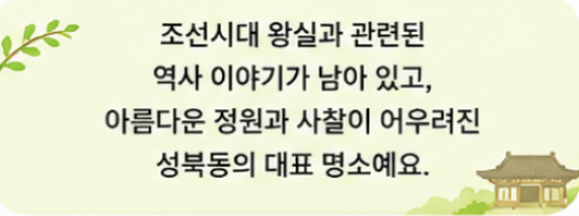
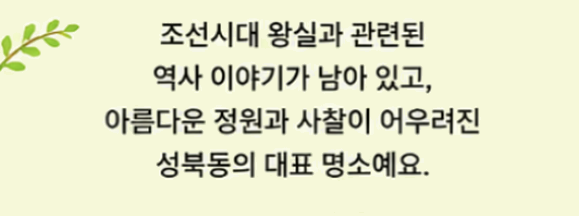
fix: 퀴즈 설명 카드 배경 통일 및 풍경 장식 제거

diff --git a/apps/web/src/pages/PlaceQuiz.tsx b/apps/web/src/pages/PlaceQuiz.tsx
@@ -4,6 +4,7 @@ import { MobileFrame } from "../components/MobileFrame";
 import { Stage } from "../components/Stage";
 import { BackButton } from "../components/BackButton";
 import { PrimaryButton } from "../components/Button";
+import type { Rect } from "@sb/types";
 import { findPlace } from "../data/episodes";
 import { rectStyle } from "../lib/rect";
 import { checkQuiz } from "../lib/api";
@@ -11,6 +12,11 @@ import { applyServerProgress, getProgress, useProgress } from "../lib/progress";
 import styles from "./PlaceQuiz.module.css";
 
 const MAX_NOTE = 30;
+
+/** 힌트 카드 위치 (PlaceQuiz.module.css .hintBox와 같은 값) */
+const HINT_BOX = { left: 33, top: 240 };
+/** data의 힌트 그림 좌표(무대 기준)를 카드 안 좌표로 */
+const inHintBox = ([left, top, width, height]: Rect): Rect => [left - HINT_BOX.left, top - HINT_BOX.top, width, height];
 
 /**
  * 문제 풀이 (/place/:id/quiz).
@@ -105,14 +111,16 @@ export default function PlaceQuiz() {
 
         {step === 1 ? (
           <>
-            <div className={styles.hintBox} />
-            <img
-              className={styles.hintImage}
-              style={rectStyle(quiz.hintImage)}
-              src={`/assets/hint-${place.id}.png`}
-              alt={quiz.hint}
-              draggable={false}
-            />
+            {/* 힌트 그림은 카드 안에 넣어 카드의 둥근 모서리로 잘리게 한다 (카드 왼쪽 끝에 붙은 그림이 모서리 밖으로 안 나오게) */}
+            <div className={styles.hintBox}>
+              <img
+                className={styles.hintImage}
+                style={rectStyle(inHintBox(quiz.hintImage))}
+                src={`/assets/hint-${place.id}.png`}
+                alt={quiz.hint}
+                draggable={false}
+              />
+            </div>
             <img
               className={styles.mascot}
               style={{ left: quiz.mascot[0], top: quiz.mascot[1] }}

diff --git a/apps/web/src/pages/PlaceQuiz.module.css b/apps/web/src/pages/PlaceQuiz.module.css
@@ -104,8 +104,11 @@
   height: 142px;
   border-radius: 23px;
   background: #f6f8d9;
+  overflow: hidden; /* 힌트 그림을 카드의 둥근 모서리로 자른다 */
 }
+/* 힌트 그림 바탕은 카드색(#f6f8d9)과 같은 단색이라 카드와 경계 없이 이어진다 */
 .hintImage {
+  position: absolute;
   object-fit: cover;
   pointer-events: none;
 }
